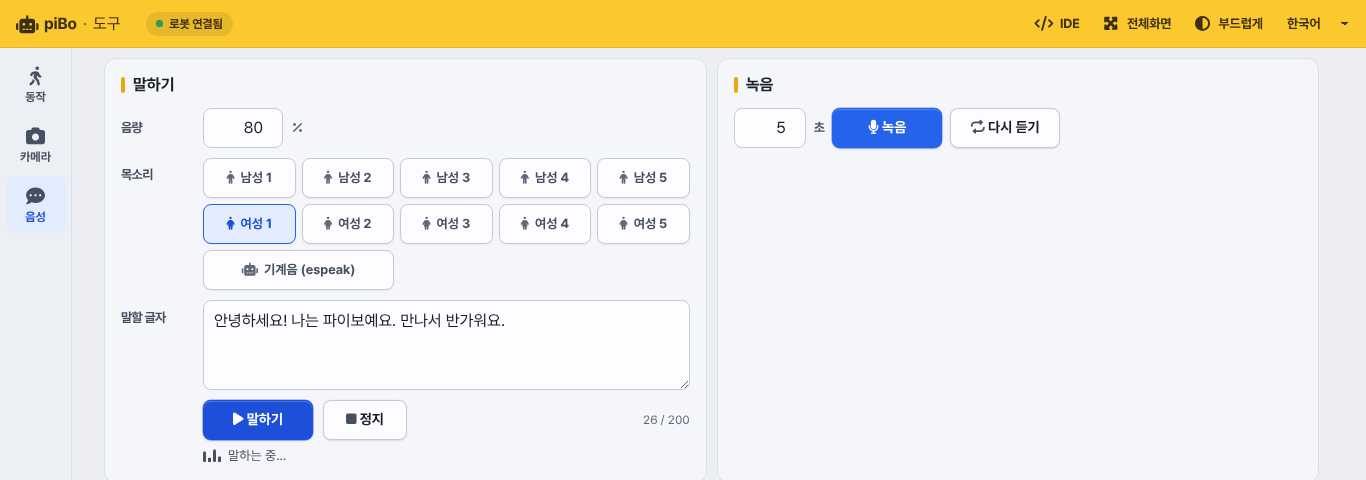
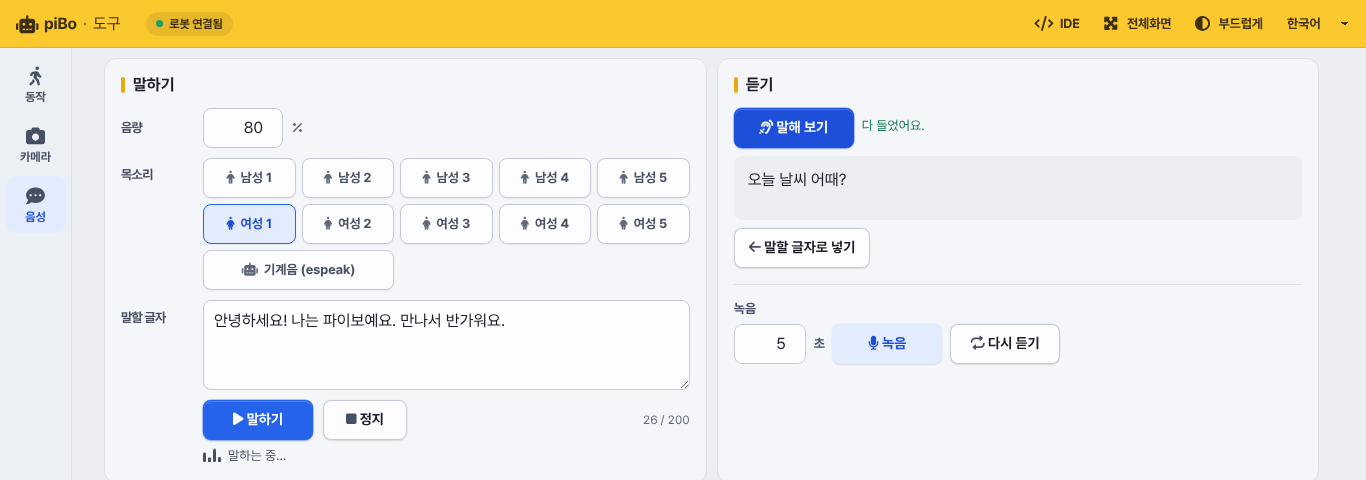
도구 [음성]: 음성 인식 — [듣기] 카드에 [말해 보기]·결과·[말할 글자로 넣기]
- run_tools.py stt 이벤트: 처음 한 번 SpeechToText 를 올리고(stt_warm, 잠금) listen(10초, 말이 끝나면 멈춤), stt_state loading/listening → stt_result
- 녹음과 같은 mic_lock — 듣는 중엔 [녹음], 녹음 중엔 [말해 보기] 잠김
- 꽉 찬 버튼은 [말해 보기], [녹음] 은 옅은 파랑으로 같은 카드 아래(키트 CSS)
- 문구 9개(ko2en 끝), 도움말 사용법·캡처(한·영), CLAUDE.md

Claude-Session: https://claude.ai/code/session_01B58SeC6D3EtQyfVM7nWo1t

diff --git a/tools/static/index.js b/tools/static/index.js
@@ -1054,6 +1054,7 @@ const getSpeech = (socket) => {
     //console.log('mic', d)
     $("#mic_status").text(d);
     micIndicatorStop();
+    $("#stt_bt").prop("disabled", false);   // 녹음이 끝나면 [말해 보기] 를 다시 쓸 수 있다(같은 마이크)
   });
 
   /* 녹음 중 표시.
@@ -1111,6 +1112,7 @@ const getSpeech = (socket) => {
     }
 
     $("#mic_status").html(`<i class='fa-solid fa-fade'>${t("recording")}</i>`);
+    $("#stt_bt").prop("disabled", true);
     micIndicator(val);
     socket.emit("mic", {
       time: val,
@@ -1120,6 +1122,44 @@ const getSpeech = (socket) => {
 
   $("#mic_replay_bt").on("click", function () {
     socket.emit("mic_replay", { volume: Number($("#volume").val()) });
+  });
+
+  // 음성 인식(261027) — [말해 보기] → 서버가 모델을 처음 한 번 올리고(stt_state loading) 듣는다(listening).
+  // 말이 끝나면 stt_result. 녹음과 같은 마이크라 듣는 동안 [녹음] 도 잠근다
+  const sttBt = document.getElementById("stt_bt");
+  const sttToTts = document.getElementById("stt_to_tts_bt");
+  const sttResult = document.getElementById("stt_result");
+  const sttStatus = document.getElementById("stt_status");
+  const setSttStatus = (text, kind) => {
+    sttStatus.textContent = text;
+    if (kind === "listen") sttStatus.insertAdjacentHTML("afterbegin", '<span class="pb-eq" aria-hidden="true"><i></i><i></i><i></i><i></i></span>');
+    sttStatus.dataset.kind = kind === "listen" ? "load" : (kind || "");
+  };
+  const sttBusy = (on) => { sttBt.disabled = on; document.getElementById("mic_bt").disabled = on; };
+  let sttText = "";
+  sttBt.addEventListener("click", () => {
+    sttBusy(true);
+    setSttStatus(t("stt_listening"), "listen");
+    socket.emit("stt", { time: 10 });
+  });
+  socket.on("stt_state", (st) => {
+    if (st === "loading") setSttStatus(t("stt_loading"), "load");
+    else if (st === "listening") setSttStatus(t("stt_listening"), "listen");
+  });
+  socket.on("stt_result", (d) => {
+    sttBusy(false);
+    if (!d || !d.ok) { setSttStatus(t((d && d.error) || "stt_error"), "err"); return; }
+    sttText = d.text || "";
+    if (!sttText) { setSttStatus(t("stt_none"), "err"); return; }
+    sttResult.textContent = sttText;           // 안내 문구(span)를 들은 글자로 바꾼다
+    sttResult.removeAttribute("data-empty");
+    sttToTts.disabled = false;
+    setSttStatus(t("stt_done"), "ok");
+  });
+  // 들은 말을 왼쪽 [말하기] 칸에 넣는다(200자까지) — 인식 → 합성을 바로 해 볼 수 있게
+  sttToTts.addEventListener("click", () => {
+    if (!sttText) return;
+    $("#s_tts_val").val(sttText.slice(0, max_tts_length)).trigger("input").focus();
   });
 
 

diff --git a/chat/static/pibo-ui.css b/chat/static/pibo-ui.css
@@ -1449,8 +1449,20 @@ body.pb-v2 .s-status[data-kind="err"] { color: var(--v2-red-ink); }
 body.pb-v2 .s-status[data-kind="load"] { color: var(--v2-accent-ink); font-weight: var(--fw-b); }
 body.pb-v2 #s_tts_bt { width: auto !important; min-width: 110px; background: var(--v2-dark) !important; color: var(--v2-on-dark); border-color: transparent; box-shadow: var(--v2-btn-sh); font-weight: 700; }
 body.pb-v2 #s_tts_bt:hover { background: var(--v2-dark-hov) !important; }
-body.pb-v2 #mic_bt { background: var(--v2-dark) !important; color: var(--v2-on-dark); border-color: transparent; box-shadow: var(--v2-btn-sh); font-weight: 700; }
-body.pb-v2 #mic_bt:hover { background: var(--v2-dark-hov) !important; }
+/* 듣기 카드(261027): 꽉 찬 버튼은 [말해 보기] 하나, [녹음] 은 옅은 파랑(카드마다 꽉 찬 버튼 하나) */
+body.pb-v2 #stt_bt { min-width: 120px; height: var(--ctl-md); padding: 0 14px; background: var(--v2-dark) !important; color: var(--v2-on-dark); border-color: transparent; box-shadow: var(--v2-btn-sh); font-weight: 700; }
+body.pb-v2 #stt_bt:hover { background: var(--v2-dark-hov) !important; }
+body.pb-v2 #stt_bt > i { color: inherit; }
+body.pb-v2 #stt_bt:disabled, body.pb-v2 #mic_bt:disabled { opacity: .5; cursor: default; }
+body.pb-v2 #mic_bt { background: var(--v2-tint) !important; color: var(--v2-tint-ink); border-color: transparent; font-weight: 700; }
+body.pb-v2 #mic_bt:hover { background: var(--v2-tint-hov) !important; }
+body.pb-v2 .stt-row { gap: 8px; align-items: center; }
+body.pb-v2 .stt-row .s-status { margin: 0; }
+body.pb-v2 #stt_to_tts_bt { height: var(--ctl-md); padding: 0 14px; }
+body.pb-v2 .stt-result { min-height: 64px; margin: 0 0 8px; padding: 12px 14px; border-radius: var(--r-ctl);
+  background: var(--v2-sunken); color: var(--v2-ink); font-size: var(--fs-lg); line-height: 1.5; white-space: pre-wrap; overflow-wrap: break-word; }
+body.pb-v2 .stt-result[data-empty] { color: var(--v2-ink-3); font-size: var(--fs-sm); }
+body.pb-v2 .s-rec-sub { margin: 8px 0 8px; padding-top: 16px; border-top: 1px solid var(--v2-line); }
 body.pb-v2 #mic_bt > i, body.pb-v2 #s_tts_bt > i, body.pb-v2 #add_motion_bt > i { color: inherit; }
 body.pb-v2 .record-row { gap: 8px; align-items: center; }
 body.pb-v2 .record-row #mic_time_val { width: 72px; text-align: right; }

diff --git a/classifier/static/pibo-ui.css b/classifier/static/pibo-ui.css
@@ -1449,8 +1449,20 @@ body.pb-v2 .s-status[data-kind="err"] { color: var(--v2-red-ink); }
 body.pb-v2 .s-status[data-kind="load"] { color: var(--v2-accent-ink); font-weight: var(--fw-b); }
 body.pb-v2 #s_tts_bt { width: auto !important; min-width: 110px; background: var(--v2-dark) !important; color: var(--v2-on-dark); border-color: transparent; box-shadow: var(--v2-btn-sh); font-weight: 700; }
 body.pb-v2 #s_tts_bt:hover { background: var(--v2-dark-hov) !important; }
-body.pb-v2 #mic_bt { background: var(--v2-dark) !important; color: var(--v2-on-dark); border-color: transparent; box-shadow: var(--v2-btn-sh); font-weight: 700; }
-body.pb-v2 #mic_bt:hover { background: var(--v2-dark-hov) !important; }
+/* 듣기 카드(261027): 꽉 찬 버튼은 [말해 보기] 하나, [녹음] 은 옅은 파랑(카드마다 꽉 찬 버튼 하나) */
+body.pb-v2 #stt_bt { min-width: 120px; height: var(--ctl-md); padding: 0 14px; background: var(--v2-dark) !important; color: var(--v2-on-dark); border-color: transparent; box-shadow: var(--v2-btn-sh); font-weight: 700; }
+body.pb-v2 #stt_bt:hover { background: var(--v2-dark-hov) !important; }
+body.pb-v2 #stt_bt > i { color: inherit; }
+body.pb-v2 #stt_bt:disabled, body.pb-v2 #mic_bt:disabled { opacity: .5; cursor: default; }
+body.pb-v2 #mic_bt { background: var(--v2-tint) !important; color: var(--v2-tint-ink); border-color: transparent; font-weight: 700; }
+body.pb-v2 #mic_bt:hover { background: var(--v2-tint-hov) !important; }
+body.pb-v2 .stt-row { gap: 8px; align-items: center; }
+body.pb-v2 .stt-row .s-status { margin: 0; }
+body.pb-v2 #stt_to_tts_bt { height: var(--ctl-md); padding: 0 14px; }
+body.pb-v2 .stt-result { min-height: 64px; margin: 0 0 8px; padding: 12px 14px; border-radius: var(--r-ctl);
+  background: var(--v2-sunken); color: var(--v2-ink); font-size: var(--fs-lg); line-height: 1.5; white-space: pre-wrap; overflow-wrap: break-word; }
+body.pb-v2 .stt-result[data-empty] { color: var(--v2-ink-3); font-size: var(--fs-sm); }
+body.pb-v2 .s-rec-sub { margin: 8px 0 8px; padding-top: 16px; border-top: 1px solid var(--v2-line); }
 body.pb-v2 #mic_bt > i, body.pb-v2 #s_tts_bt > i, body.pb-v2 #add_motion_bt > i { color: inherit; }
 body.pb-v2 .record-row { gap: 8px; align-items: center; }
 body.pb-v2 .record-row #mic_time_val { width: 72px; text-align: right; }

diff --git a/design/pibo-ui.css b/design/pibo-ui.css
@@ -1449,8 +1449,20 @@ body.pb-v2 .s-status[data-kind="err"] { color: var(--v2-red-ink); }
 body.pb-v2 .s-status[data-kind="load"] { color: var(--v2-accent-ink); font-weight: var(--fw-b); }
 body.pb-v2 #s_tts_bt { width: auto !important; min-width: 110px; background: var(--v2-dark) !important; color: var(--v2-on-dark); border-color: transparent; box-shadow: var(--v2-btn-sh); font-weight: 700; }
 body.pb-v2 #s_tts_bt:hover { background: var(--v2-dark-hov) !important; }
-body.pb-v2 #mic_bt { background: var(--v2-dark) !important; color: var(--v2-on-dark); border-color: transparent; box-shadow: var(--v2-btn-sh); font-weight: 700; }
-body.pb-v2 #mic_bt:hover { background: var(--v2-dark-hov) !important; }
+/* 듣기 카드(261027): 꽉 찬 버튼은 [말해 보기] 하나, [녹음] 은 옅은 파랑(카드마다 꽉 찬 버튼 하나) */
+body.pb-v2 #stt_bt { min-width: 120px; height: var(--ctl-md); padding: 0 14px; background: var(--v2-dark) !important; color: var(--v2-on-dark); border-color: transparent; box-shadow: var(--v2-btn-sh); font-weight: 700; }
+body.pb-v2 #stt_bt:hover { background: var(--v2-dark-hov) !important; }
+body.pb-v2 #stt_bt > i { color: inherit; }
+body.pb-v2 #stt_bt:disabled, body.pb-v2 #mic_bt:disabled { opacity: .5; cursor: default; }
+body.pb-v2 #mic_bt { background: var(--v2-tint) !important; color: var(--v2-tint-ink); border-color: transparent; font-weight: 700; }
+body.pb-v2 #mic_bt:hover { background: var(--v2-tint-hov) !important; }
+body.pb-v2 .stt-row { gap: 8px; align-items: center; }
+body.pb-v2 .stt-row .s-status { margin: 0; }
+body.pb-v2 #stt_to_tts_bt { height: var(--ctl-md); padding: 0 14px; }
+body.pb-v2 .stt-result { min-height: 64px; margin: 0 0 8px; padding: 12px 14px; border-radius: var(--r-ctl);
+  background: var(--v2-sunken); color: var(--v2-ink); font-size: var(--fs-lg); line-height: 1.5; white-space: pre-wrap; overflow-wrap: break-word; }
+body.pb-v2 .stt-result[data-empty] { color: var(--v2-ink-3); font-size: var(--fs-sm); }
+body.pb-v2 .s-rec-sub { margin: 8px 0 8px; padding-top: 16px; border-top: 1px solid var(--v2-line); }
 body.pb-v2 #mic_bt > i, body.pb-v2 #s_tts_bt > i, body.pb-v2 #add_motion_bt > i { color: inherit; }
 body.pb-v2 .record-row { gap: 8px; align-items: center; }
 body.pb-v2 .record-row #mic_time_val { width: 72px; text-align: right; }

diff --git a/ide/static/pibo-ui.css b/ide/static/pibo-ui.css
@@ -1449,8 +1449,20 @@ body.pb-v2 .s-status[data-kind="err"] { color: var(--v2-red-ink); }
 body.pb-v2 .s-status[data-kind="load"] { color: var(--v2-accent-ink); font-weight: var(--fw-b); }
 body.pb-v2 #s_tts_bt { width: auto !important; min-width: 110px; background: var(--v2-dark) !important; color: var(--v2-on-dark); border-color: transparent; box-shadow: var(--v2-btn-sh); font-weight: 700; }
 body.pb-v2 #s_tts_bt:hover { background: var(--v2-dark-hov) !important; }
-body.pb-v2 #mic_bt { background: var(--v2-dark) !important; color: var(--v2-on-dark); border-color: transparent; box-shadow: var(--v2-btn-sh); font-weight: 700; }
-body.pb-v2 #mic_bt:hover { background: var(--v2-dark-hov) !important; }
+/* 듣기 카드(261027): 꽉 찬 버튼은 [말해 보기] 하나, [녹음] 은 옅은 파랑(카드마다 꽉 찬 버튼 하나) */
+body.pb-v2 #stt_bt { min-width: 120px; height: var(--ctl-md); padding: 0 14px; background: var(--v2-dark) !important; color: var(--v2-on-dark); border-color: transparent; box-shadow: var(--v2-btn-sh); font-weight: 700; }
+body.pb-v2 #stt_bt:hover { background: var(--v2-dark-hov) !important; }
+body.pb-v2 #stt_bt > i { color: inherit; }
+body.pb-v2 #stt_bt:disabled, body.pb-v2 #mic_bt:disabled { opacity: .5; cursor: default; }
+body.pb-v2 #mic_bt { background: var(--v2-tint) !important; color: var(--v2-tint-ink); border-color: transparent; font-weight: 700; }
+body.pb-v2 #mic_bt:hover { background: var(--v2-tint-hov) !important; }
+body.pb-v2 .stt-row { gap: 8px; align-items: center; }
+body.pb-v2 .stt-row .s-status { margin: 0; }
+body.pb-v2 #stt_to_tts_bt { height: var(--ctl-md); padding: 0 14px; }
+body.pb-v2 .stt-result { min-height: 64px; margin: 0 0 8px; padding: 12px 14px; border-radius: var(--r-ctl);
+  background: var(--v2-sunken); color: var(--v2-ink); font-size: var(--fs-lg); line-height: 1.5; white-space: pre-wrap; overflow-wrap: break-word; }
+body.pb-v2 .stt-result[data-empty] { color: var(--v2-ink-3); font-size: var(--fs-sm); }
+body.pb-v2 .s-rec-sub { margin: 8px 0 8px; padding-top: 16px; border-top: 1px solid var(--v2-line); }
 body.pb-v2 #mic_bt > i, body.pb-v2 #s_tts_bt > i, body.pb-v2 #add_motion_bt > i { color: inherit; }
 body.pb-v2 .record-row { gap: 8px; align-items: center; }
 body.pb-v2 .record-row #mic_time_val { width: 72px; text-align: right; }

diff --git a/tools/static/pibo-ui.css b/tools/static/pibo-ui.css
@@ -1449,8 +1449,20 @@ body.pb-v2 .s-status[data-kind="err"] { color: var(--v2-red-ink); }
 body.pb-v2 .s-status[data-kind="load"] { color: var(--v2-accent-ink); font-weight: var(--fw-b); }
 body.pb-v2 #s_tts_bt { width: auto !important; min-width: 110px; background: var(--v2-dark) !important; color: var(--v2-on-dark); border-color: transparent; box-shadow: var(--v2-btn-sh); font-weight: 700; }
 body.pb-v2 #s_tts_bt:hover { background: var(--v2-dark-hov) !important; }
-body.pb-v2 #mic_bt { background: var(--v2-dark) !important; color: var(--v2-on-dark); border-color: transparent; box-shadow: var(--v2-btn-sh); font-weight: 700; }
-body.pb-v2 #mic_bt:hover { background: var(--v2-dark-hov) !important; }
+/* 듣기 카드(261027): 꽉 찬 버튼은 [말해 보기] 하나, [녹음] 은 옅은 파랑(카드마다 꽉 찬 버튼 하나) */
+body.pb-v2 #stt_bt { min-width: 120px; height: var(--ctl-md); padding: 0 14px; background: var(--v2-dark) !important; color: var(--v2-on-dark); border-color: transparent; box-shadow: var(--v2-btn-sh); font-weight: 700; }
+body.pb-v2 #stt_bt:hover { background: var(--v2-dark-hov) !important; }
+body.pb-v2 #stt_bt > i { color: inherit; }
+body.pb-v2 #stt_bt:disabled, body.pb-v2 #mic_bt:disabled { opacity: .5; cursor: default; }
+body.pb-v2 #mic_bt { background: var(--v2-tint) !important; color: var(--v2-tint-ink); border-color: transparent; font-weight: 700; }
+body.pb-v2 #mic_bt:hover { background: var(--v2-tint-hov) !important; }
+body.pb-v2 .stt-row { gap: 8px; align-items: center; }
+body.pb-v2 .stt-row .s-status { margin: 0; }
+body.pb-v2 #stt_to_tts_bt { height: var(--ctl-md); padding: 0 14px; }
+body.pb-v2 .stt-result { min-height: 64px; margin: 0 0 8px; padding: 12px 14px; border-radius: var(--r-ctl);
+  background: var(--v2-sunken); color: var(--v2-ink); font-size: var(--fs-lg); line-height: 1.5; white-space: pre-wrap; overflow-wrap: break-word; }
+body.pb-v2 .stt-result[data-empty] { color: var(--v2-ink-3); font-size: var(--fs-sm); }
+body.pb-v2 .s-rec-sub { margin: 8px 0 8px; padding-top: 16px; border-top: 1px solid var(--v2-line); }
 body.pb-v2 #mic_bt > i, body.pb-v2 #s_tts_bt > i, body.pb-v2 #add_motion_bt > i { color: inherit; }
 body.pb-v2 .record-row { gap: 8px; align-items: center; }
 body.pb-v2 .record-row #mic_time_val { width: 72px; text-align: right; }

diff --git a/tools/templates/index.html b/tools/templates/index.html
@@ -557,8 +557,24 @@
 
             <section class="s-rec">
               <div>
-                <h3 class="mark" data-key="record"></h3>
+                <h3 class="mark" data-key="listen_title"></h3>
               </div>
+              <!-- 음성 인식(261027): 말이 끝나면 저절로 멈추고 글자로 보여 준다. 글자는 왼쪽 [말하기] 칸에 넣을 수 있다 -->
+              <div class="speech-input-group stt-row">
+                <button id="stt_bt">
+                  <i class="fa-solid fa-ear-listen"></i>
+                  <span data-key="stt_listen"></span>
+                </button>
+                <span class="s-status" id="stt_status"></span>
+              </div>
+              <div class="stt-result" id="stt_result" data-empty><span data-key="stt_result_ph"></span></div>
+              <div class="speech-input-group stt-row">
+                <button id="stt_to_tts_bt" disabled>
+                  <i class="fa-solid fa-arrow-left"></i>
+                  <span data-key="stt_to_tts"></span>
+                </button>
+              </div>
+              <div class="s-rec-sub pb-label" data-key="record"></div>
               <div class="speech-input-group record-row">
                 <input type="number" name="mic_time_val" id="mic_time_val" value="5" min="1" max="30" pattern="\d*" />
                 <span class="label" data-key="second"></span>

diff --git a/tools/static/ko2en.js b/tools/static/ko2en.js
@@ -146,6 +146,16 @@ const translations = {
   camera_not_ready:   { ko: "카메라가 아직 준비되지 않았어요.", en: "The camera is not ready yet." },
   download_failed:    { ko: "내려받지 못했어요.", en: "Could not download." },
   language:           { ko: "언어", en: "Language" },
+  // 261027 — 음성 인식(도구 [음성] 듣기 카드)
+  listen_title:   { ko: "듣기", en: "Listen" },
+  stt_listen:     { ko: "말해 보기", en: "Try speaking" },
+  stt_loading:    { ko: "음성 인식 준비 중… (처음 한 번 몇 초 걸려요)", en: "Loading speech recognition… (a few seconds the first time)" },
+  stt_listening:  { ko: "듣는 중… 말해 보세요.", en: "Listening… say something." },
+  stt_done:       { ko: "다 들었어요.", en: "Done." },
+  stt_none:       { ko: "들은 말이 없어요. 조금 더 크게 말해 보세요.", en: "I didn't hear anything. Try speaking a little louder." },
+  stt_error:      { ko: "음성 인식을 하지 못했어요.", en: "Could not recognize speech." },
+  stt_result_ph:  { ko: "[말해 보기]를 누르고 말하면 여기에 글자로 나와요.", en: "Press [Try speaking] and talk. Your words show up here." },
+  stt_to_tts:     { ko: "말할 글자로 넣기", en: "Use as text to speak" },
 };
 
 // 키 → 현재 언어 문자열. 모르는 키(일반 문자열)는 그대로 반환.

diff --git a/tools/lib.py b/tools/lib.py
@@ -58,6 +58,9 @@ class Pibo:
     self.speech_od = None   # 온디바이스 TTS. 모델이 무거워 음성 탭을 열 때(voice_warm) 또는 처음 말할 때 올린다
     self.voice_state = 'idle'   # idle / loading / ready / error
     self._voice_lock = Lock()
+    self.stt_obj = None     # 기기 안 음성 인식(SenseVoice, 약 240MB). [음성] 의 [말해 보기] 를 처음 누를 때 올린다
+    self.stt_state = 'idle'   # idle / loading / ready / error
+    self._stt_lock = Lock()
 
     self.mot = Motion()
     self.aud = Audio()
@@ -316,6 +319,27 @@ class Pibo:
 
   def tts_stop(self):
     self.aud.stop()
+
+  def stt_warm(self):
+    """음성 인식 모델을 올린다(한 번만, 파이보에서 약 5초). 두 번 불러도 한 번만 올라간다"""
+    with self._stt_lock:
+      if self.stt_obj is not None:
+        return self.stt_state
+      self.stt_state = 'loading'
+      try:
+        from openpibo.speech import SpeechToText
+        self.stt_obj = SpeechToText()
+        self.stt_state = 'ready'
+      except Exception as ex:
+        logging.error(f'[stt_warm] Error: {ex}')
+        self.stt_state = 'error'
+        raise
+      return self.stt_state
+
+  def stt(self, timeout):
+    """마이크로 듣고 글자로 바꾼다. 말이 끝나면(0.8초 조용) 멈추고, 최대 timeout 초. 말이 없으면 빈 글자"""
+    self.stt_warm()
+    return self.stt_obj.listen(timeout=timeout)
 
   ## motion
   def make_raw(self):

diff --git a/tools/run_tools.py b/tools/run_tools.py
@@ -281,6 +281,27 @@ async def mic(sid, d=None):
   await emit('mic', '')
   pibo.aud.play("/home/pi/myaudio/mic.wav", volume_of(d))
 
+# 음성 인식 — [음성] 의 [말해 보기]. 마이크를 녹음과 같이 쓰므로 같은 잠금(동시에 못 쓴다).
+# 모델을 처음 올릴 때 stt_state loading → 듣기 시작하면 listening → 결과 stt_result {ok, text | error}
+@app.sio.on('stt')
+async def stt(sid, d=None):
+  if pibo is None:
+    return
+  if mic_lock.locked():   # 녹음·듣기 중에 또 누름
+    return
+  sec = to_num(d.get('time'), 1, 30) if isinstance(d, dict) else None
+  async with mic_lock:
+    try:
+      if pibo.stt_state != 'ready':
+        await emit('stt_state', 'loading')
+        await asyncio.to_thread(pibo.stt_warm)
+      await emit('stt_state', 'listening')
+      text = await asyncio.to_thread(pibo.stt, sec or 10)
+      await emit('stt_result', {'ok': True, 'text': str(text or '').strip()})
+    except Exception as ex:
+      logging.error(f'[stt] Error: {ex}')
+      await emit('stt_result', {'ok': False, 'error': 'stt_error'})
+
 @app.sio.on('mic_replay')
 async def mic_replay(sid, d=None):
   if pibo is None:

diff --git a/docs/source_en/notes/piboMaker.md b/docs/source_en/notes/piboMaker.md
@@ -52,7 +52,9 @@ Try piBo's features one at a time, without code. Pick [Motion], [Camera] or [Spe
 ![Tools: Speech](images/tools_speech.png)
 
 - **Speech**: pick one of ten voices (Male 1–5, Female 1–5) or the robot voice (espeak) and let piBo say your text. Korean and English are
-  detected automatically. [Speak] says it. [Record] records piBo's microphone and [Play again] plays it back
+  detected automatically. [Speak] says it. Under [Listen], press [Try speaking] and talk: piBo stops by itself when you finish and shows
+  what it heard as text (up to 10 seconds, processed on piBo). [Use as text to speak] puts that text into the box on the left so piBo can say it back.
+  The first time takes a few seconds while speech recognition loads. [Record] records piBo's microphone and [Play again] plays it back
 
 ## Classifier
 
